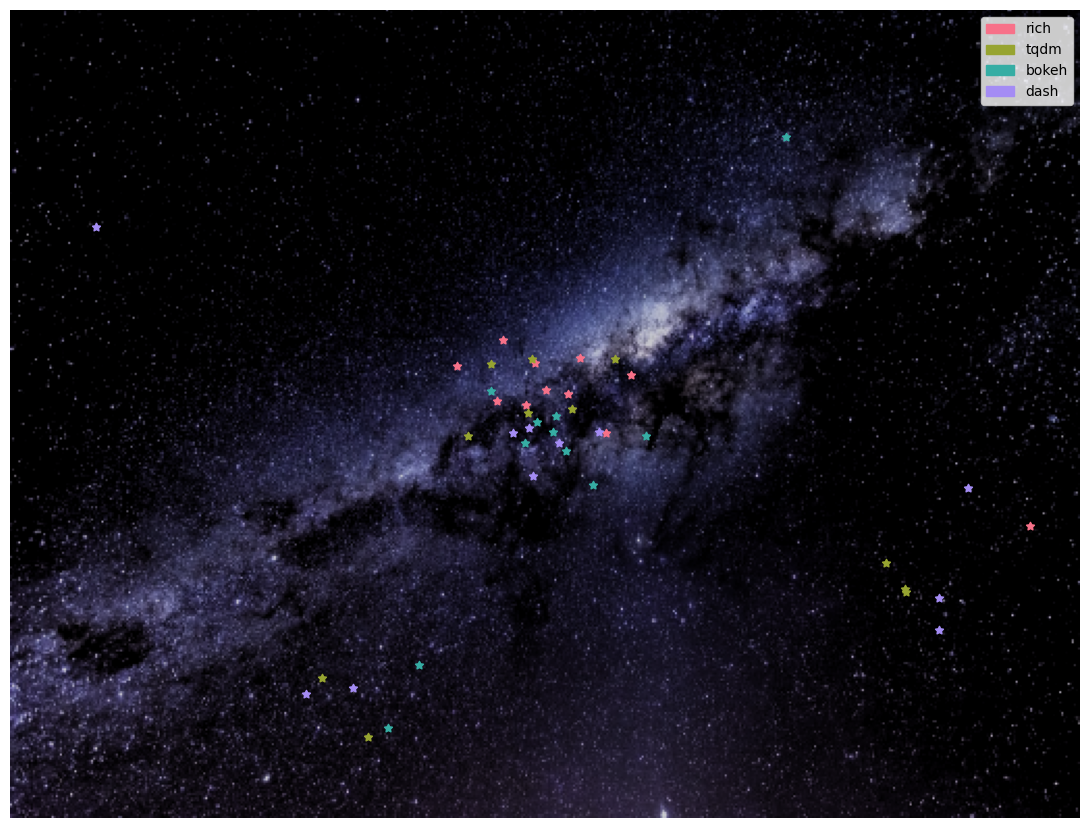
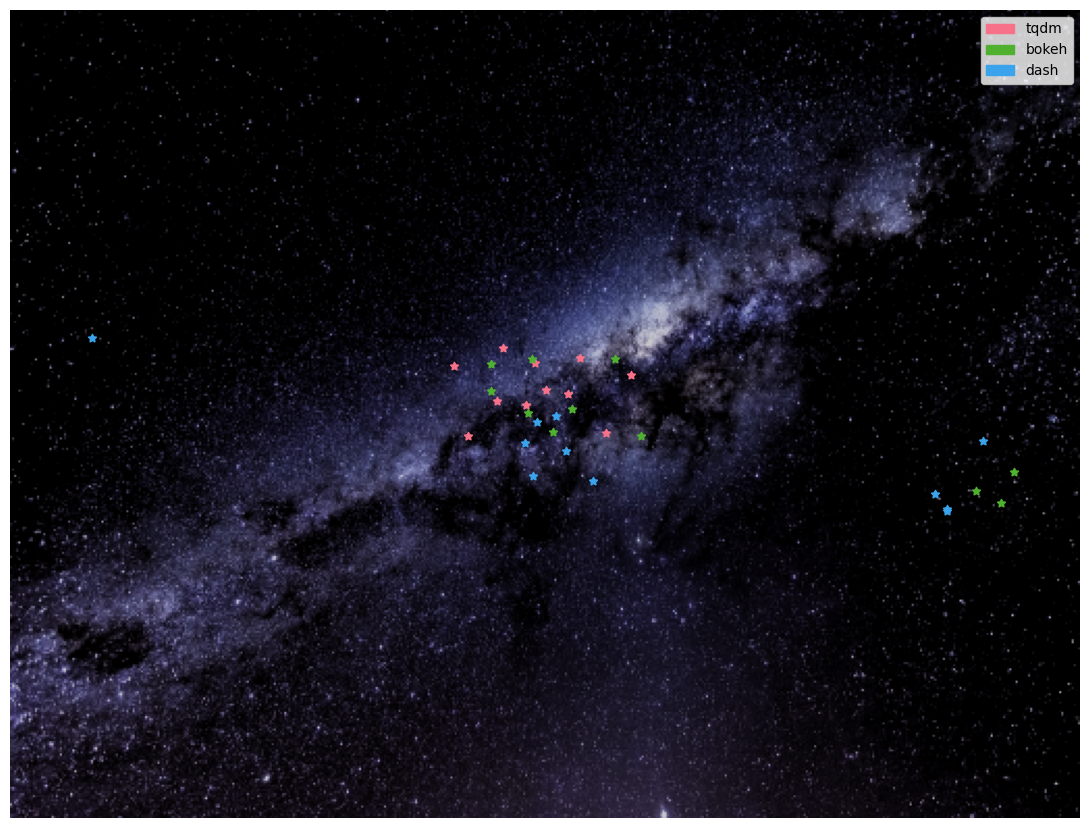
clusters

diff --git a/make_clusters.py b/make_clusters.py
@@ -33,7 +33,7 @@ def compute_distance_matric(embeds):
 def pull_repos(repos):
 	repo_keys = pull_repo_key(repos)
 	distance_matrix = np.zeros((len(repo_keys), len(repo_keys)))
-	for feature_name, weight in zip(['explanation', 'category_desc', 'category_name'], [0.05, 0.45, 0.5]):
+	for feature_name, weight in zip(['explanation', 'category_desc', 'category_name'], [0.6, 0.2, 0.2]):
 		embeds = get_embeddings(feature_name, repos)
 		distance_matrix_embed = compute_distance_matric(embeds)
 		distance_matrix += distance_matrix_embed*weight
